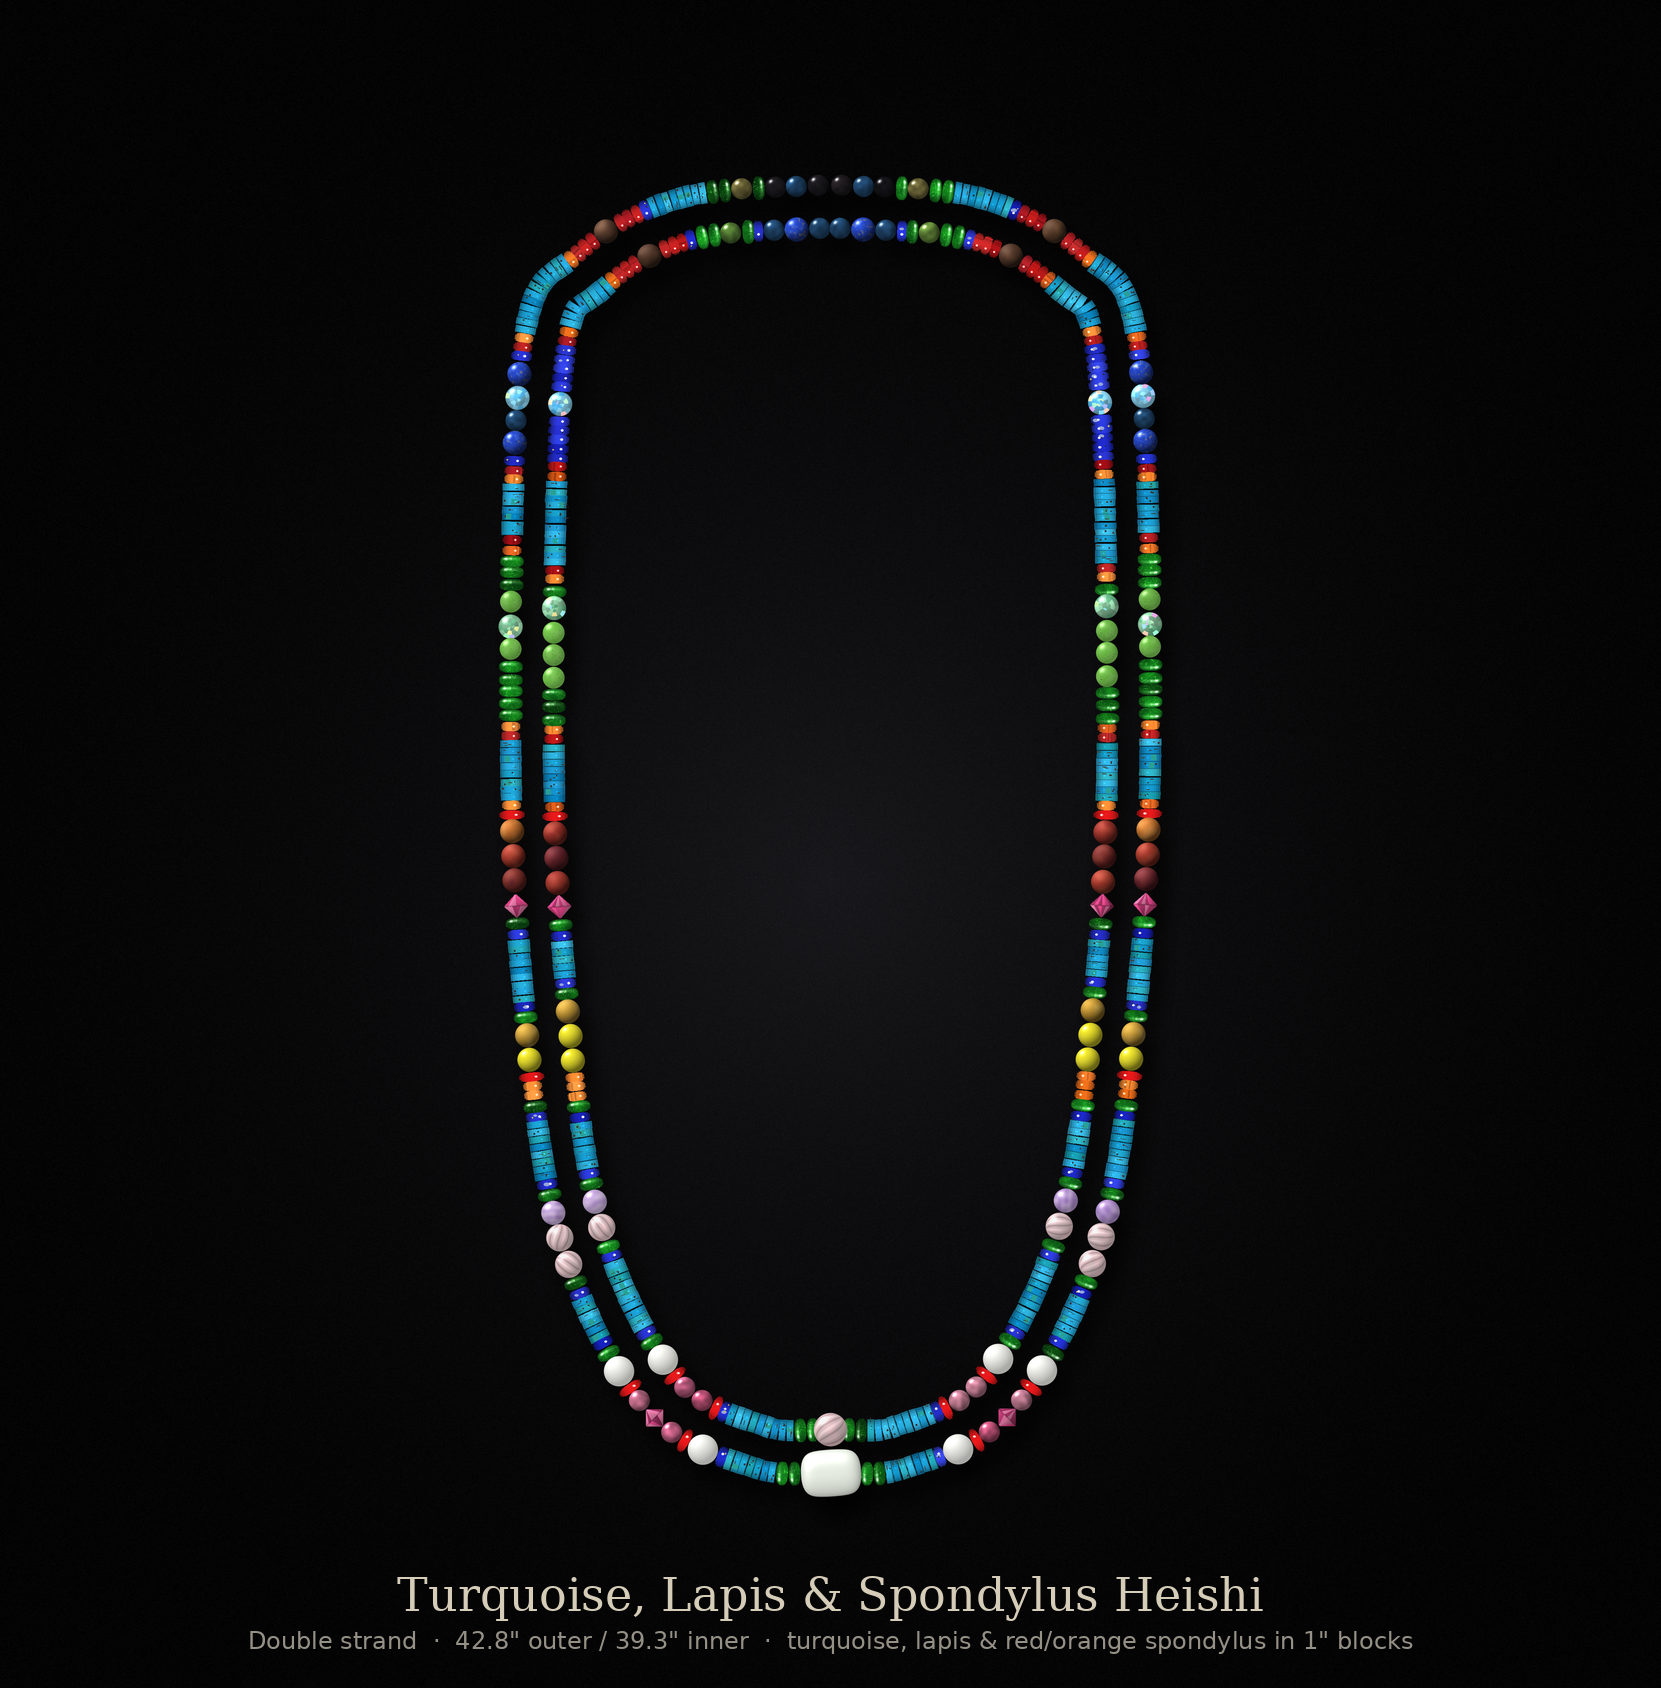
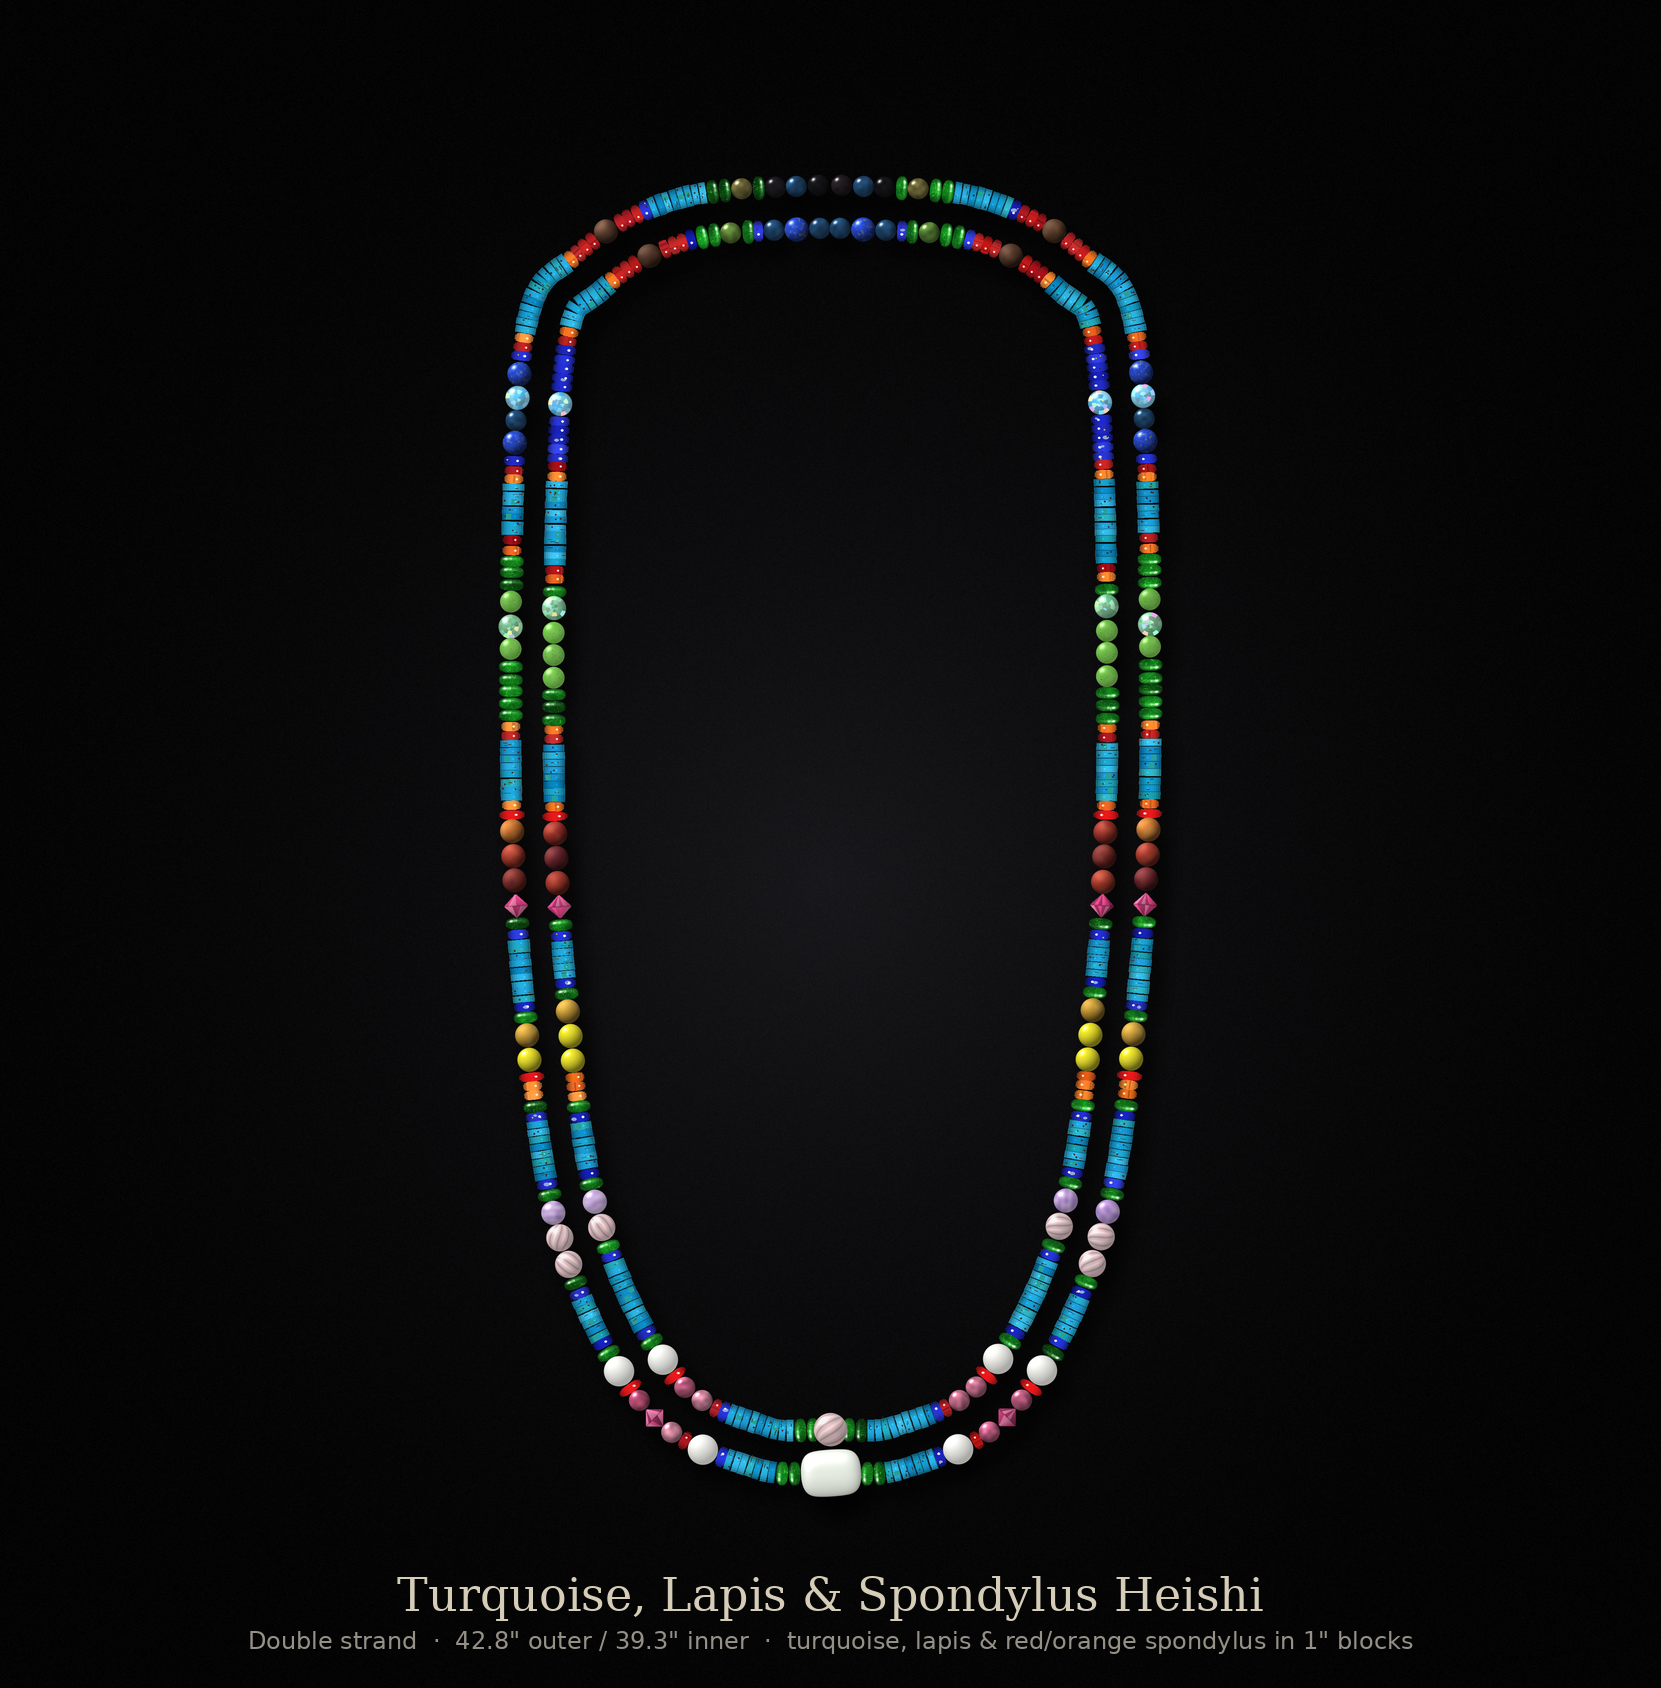
Version 5: red spiny oyster for the lowest red glass in the bottom band
Claude-Session: https://claude.ai/code/session_014be1vF4Rdf8sv9Si75Gudv

diff --git a/necklace/render_necklace.py b/necklace/render_necklace.py
@@ -1031,6 +1031,9 @@ if V4:
         BANDS[5] = (BANDS[5][0], _gi)
         BANDS[8] = tuple(b[:1] + ["diop"] + b[1:] for b in BANDS[8])   # chrome diopside between the lapis and the top white opal
         assert all(b[2] == "opal10" for b in BANDS[8])
+        def _low_red(seq):                          # lowest red glass of the bottom band -> red spiny oyster
+            seq = list(seq); k = len(seq) - 1 - seq[::-1].index("redglass"); seq[k] = "red"; return seq
+        BANDS[8] = tuple(_low_red(b) for b in BANDS[8])
         BANDS[3] = tuple(b[:1] + b[2:] for b in BANDS[3])   # one orange fewer at the top of the yellow band (room for that diopside)
         assert all(b[1] == "orange" for b in BANDS[3])
         BANDS[3] = tuple(b[:1] + ["diop"] + b[2:] for b in BANDS[3])   # chrome diopside instead of orange atop the yellow mookaite
